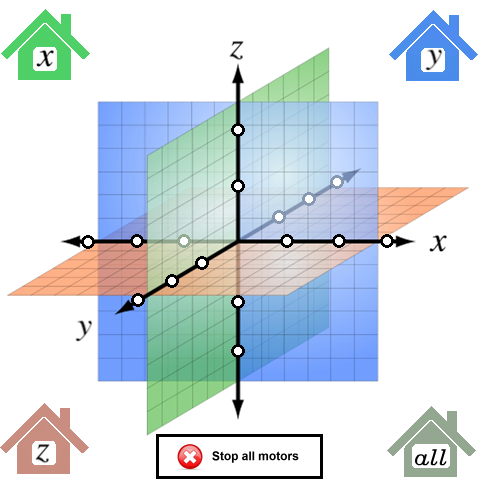
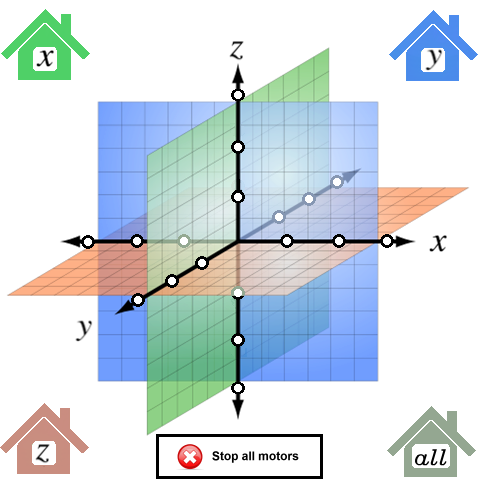
added 0.1mm movement to Z axis

diff --git a/src/manualctl/moveaxis.py b/src/manualctl/moveaxis.py
@@ -8,7 +8,8 @@ imageMap = [[0,0,92,84,"XH"], [388,0,473,84,"YH"], [0,400,92,473,"ZH"], [388,409
 	[173,232,193,252,"X-1"], [126,232,146,252,"X-2"], [78,232,98,252,"X-3"],
 	[128,288,148,308,"Y-3"],[163,270,183,290,"Y-2"],[191,253,211,273,"Y-1"],
 	[267,206,287,226,"Y+1"],[300,190,320,210,"Y+2"],[327,171,347,191,"Y+3"],
-	[227,119,247,139,"Z+2"], [227,175,247,195,"Z+1"],[227,292,247,312,"Z-1"],[227,340,247,360,"Z-2"],
+	[227,85,247,105,"Z+3"], [227,137,247,157,"Z+2"], [227,187,247,207,"Z+1"],
+	[227,280,247,302,"Z-1"],[227,330,247,350,"Z-2"],[227,377,247,397,"Z-3"],
 	[160,431,322,477,"STOP"]]
 
 
@@ -17,7 +18,8 @@ dispatch = { "XH": "G28 X0", "YH": "G28 Y0", "ZH": "G28 Z0", "AH": "G28",
 	"X+1": "G1 X1",	"X+2": "G1 X10",  "X+3": "G1 X100",
 	"Y-3": "G1 Y-100", "Y-2": "G1 Y-10", "Y-1": "G1 Y-1",
 	"Y+1": "G1 Y1",	"Y+2": "G1 Y10",  "Y+3": "G1 Y100",
-	"Z-2": "G1 Z-10",  "Z-1": "G1 Z-1",  "Z+1": "G1 Z1",  "Z+2": "G1 Z10",
+	"Z-3": "G1 Z-10", "Z-2": "G1 Z-1",  "Z-1": "G1 Z-0.1",
+	"Z+1": "G1 Z0.1",  "Z+2": "G1 Z1", "Z+3": "G1 Z10",
 	"STOP": "M84"}
 
 BUTTONDIM = (64, 64)

diff --git a/src/stlview.py b/src/stlview.py
@@ -180,8 +180,8 @@ class MyCanvasBase(glcanvas.GLCanvas):
 		self.anglex = self.angley = 0
 		self.transx = self.transy = 0
 		self.resetView = True
-		self.light0Pos = []
-		self.light1Pos = []
+		self.light0Pos = [0, 0, 150]
+		self.light1Pos = [0, 0, 150]
 		self.size = None
 		self.Bind(wx.EVT_ERASE_BACKGROUND, self.OnEraseBackground)
 		self.Bind(wx.EVT_SIZE, self.OnSize)
